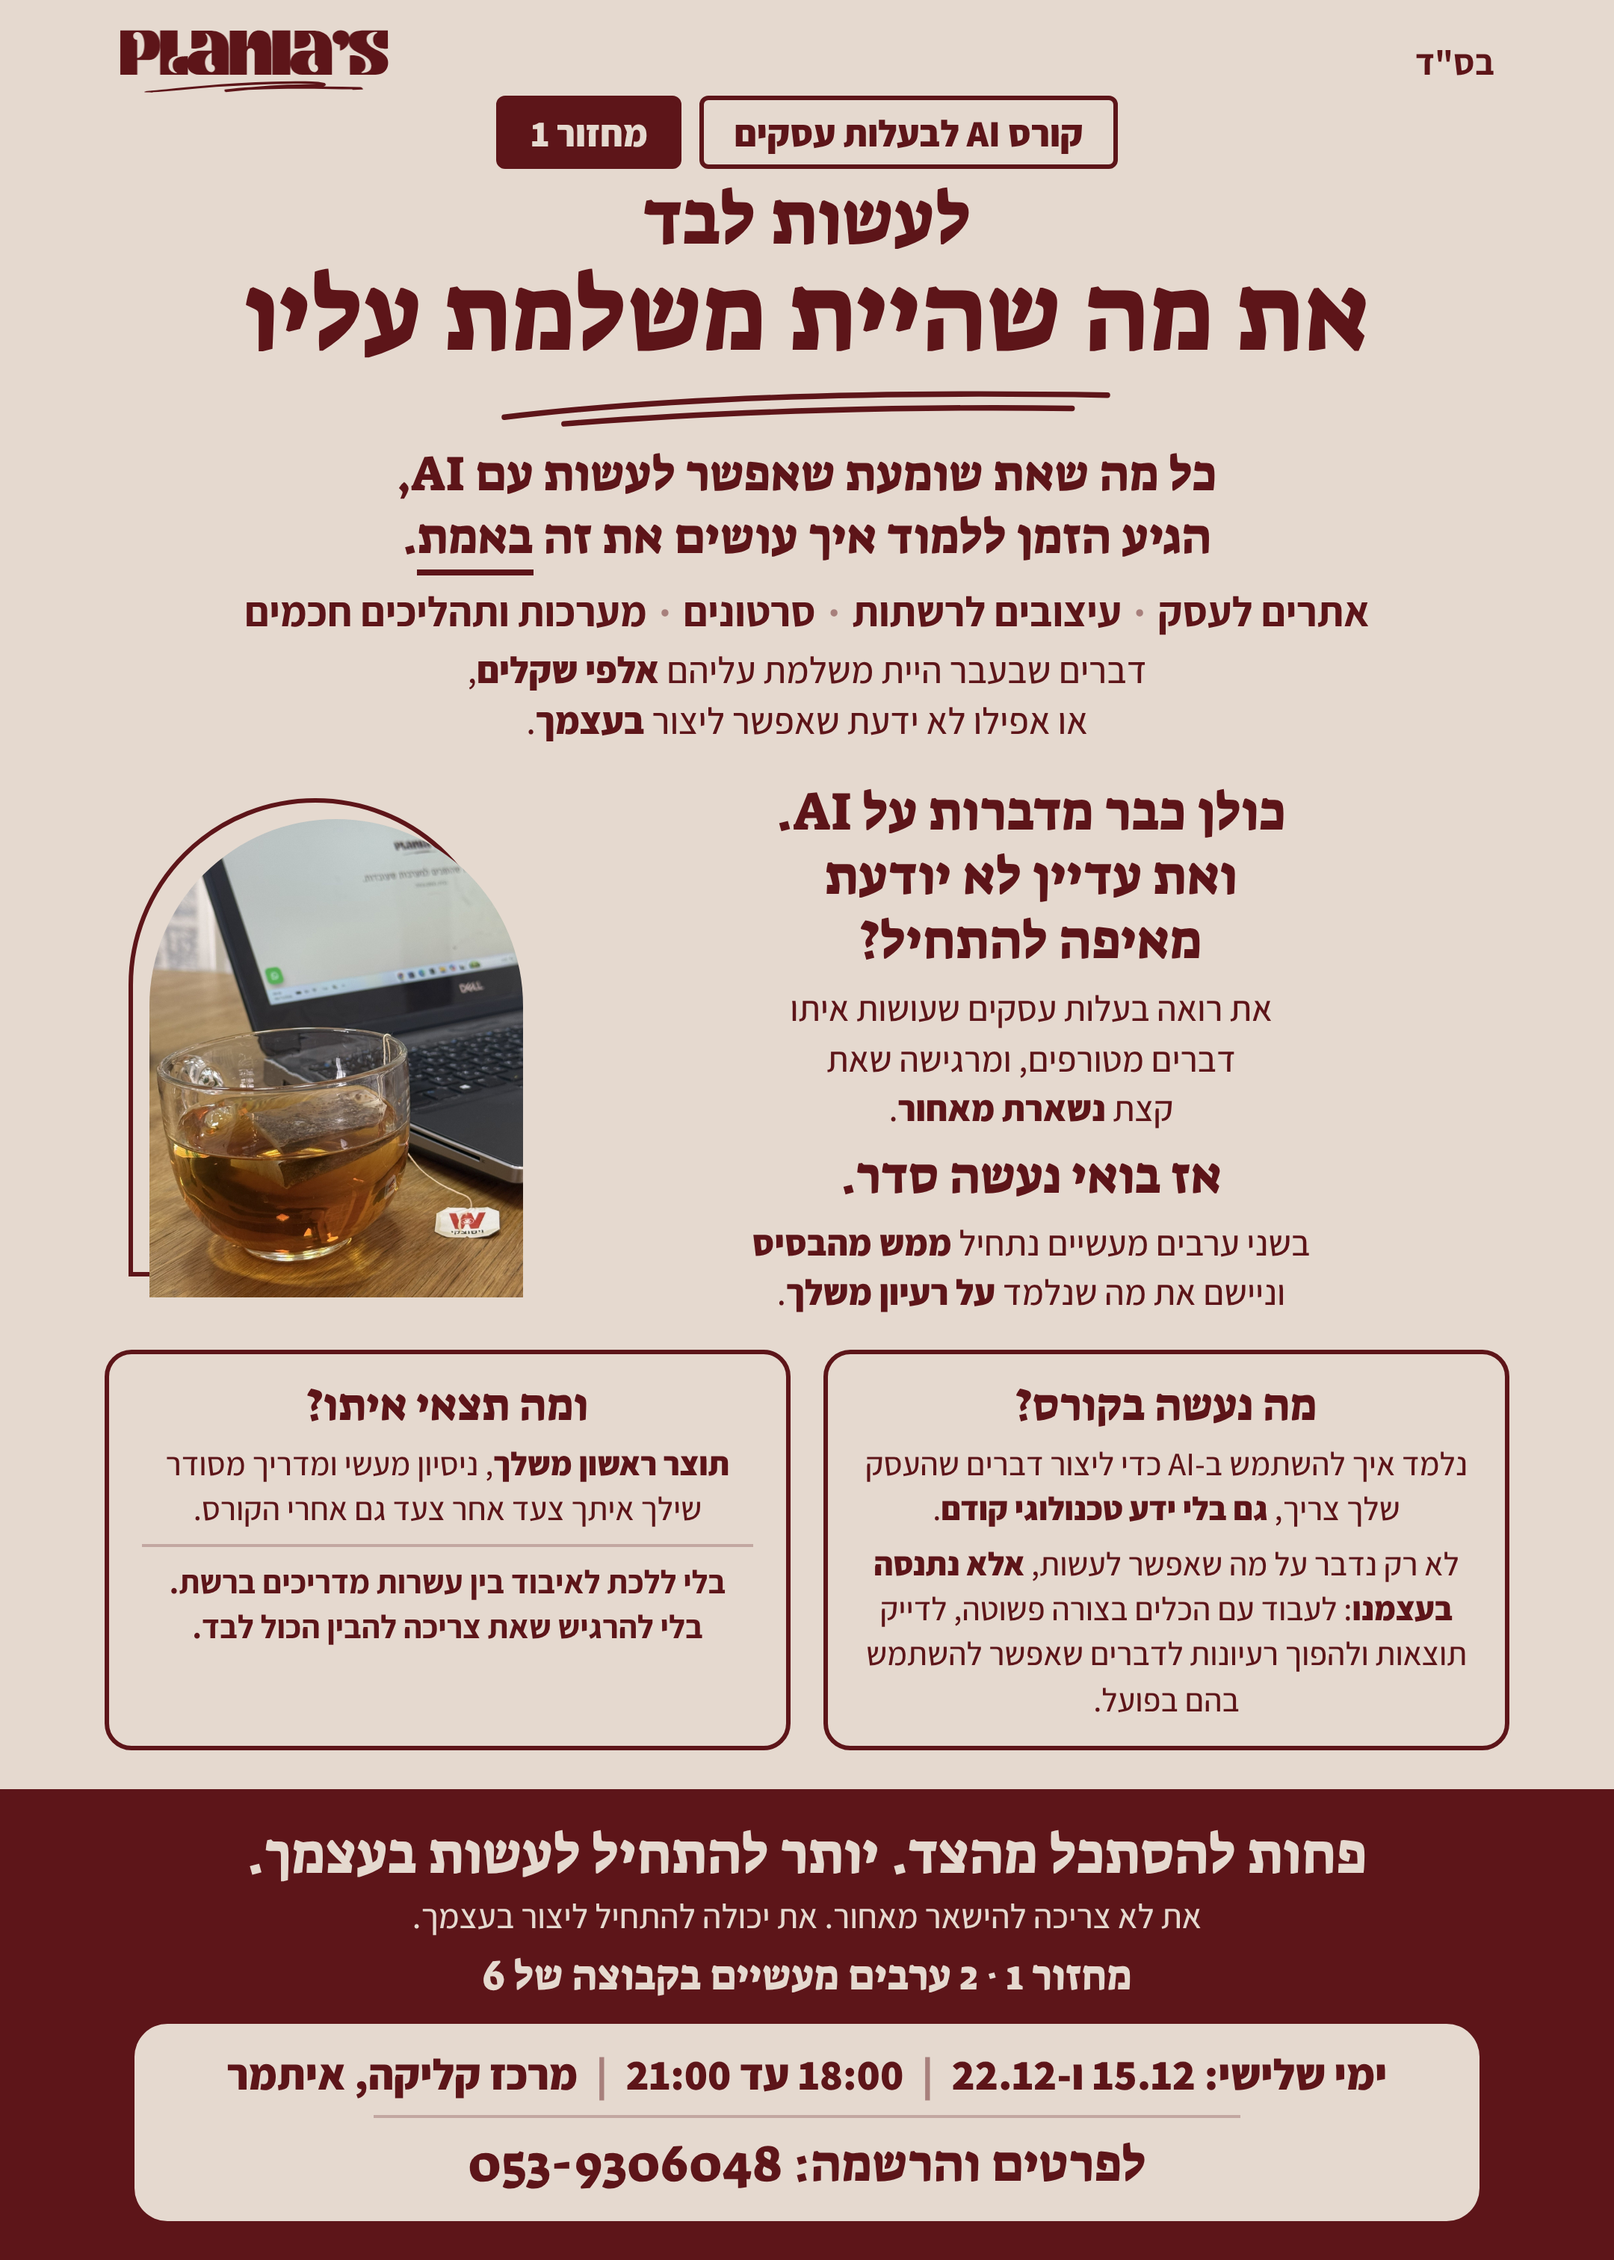
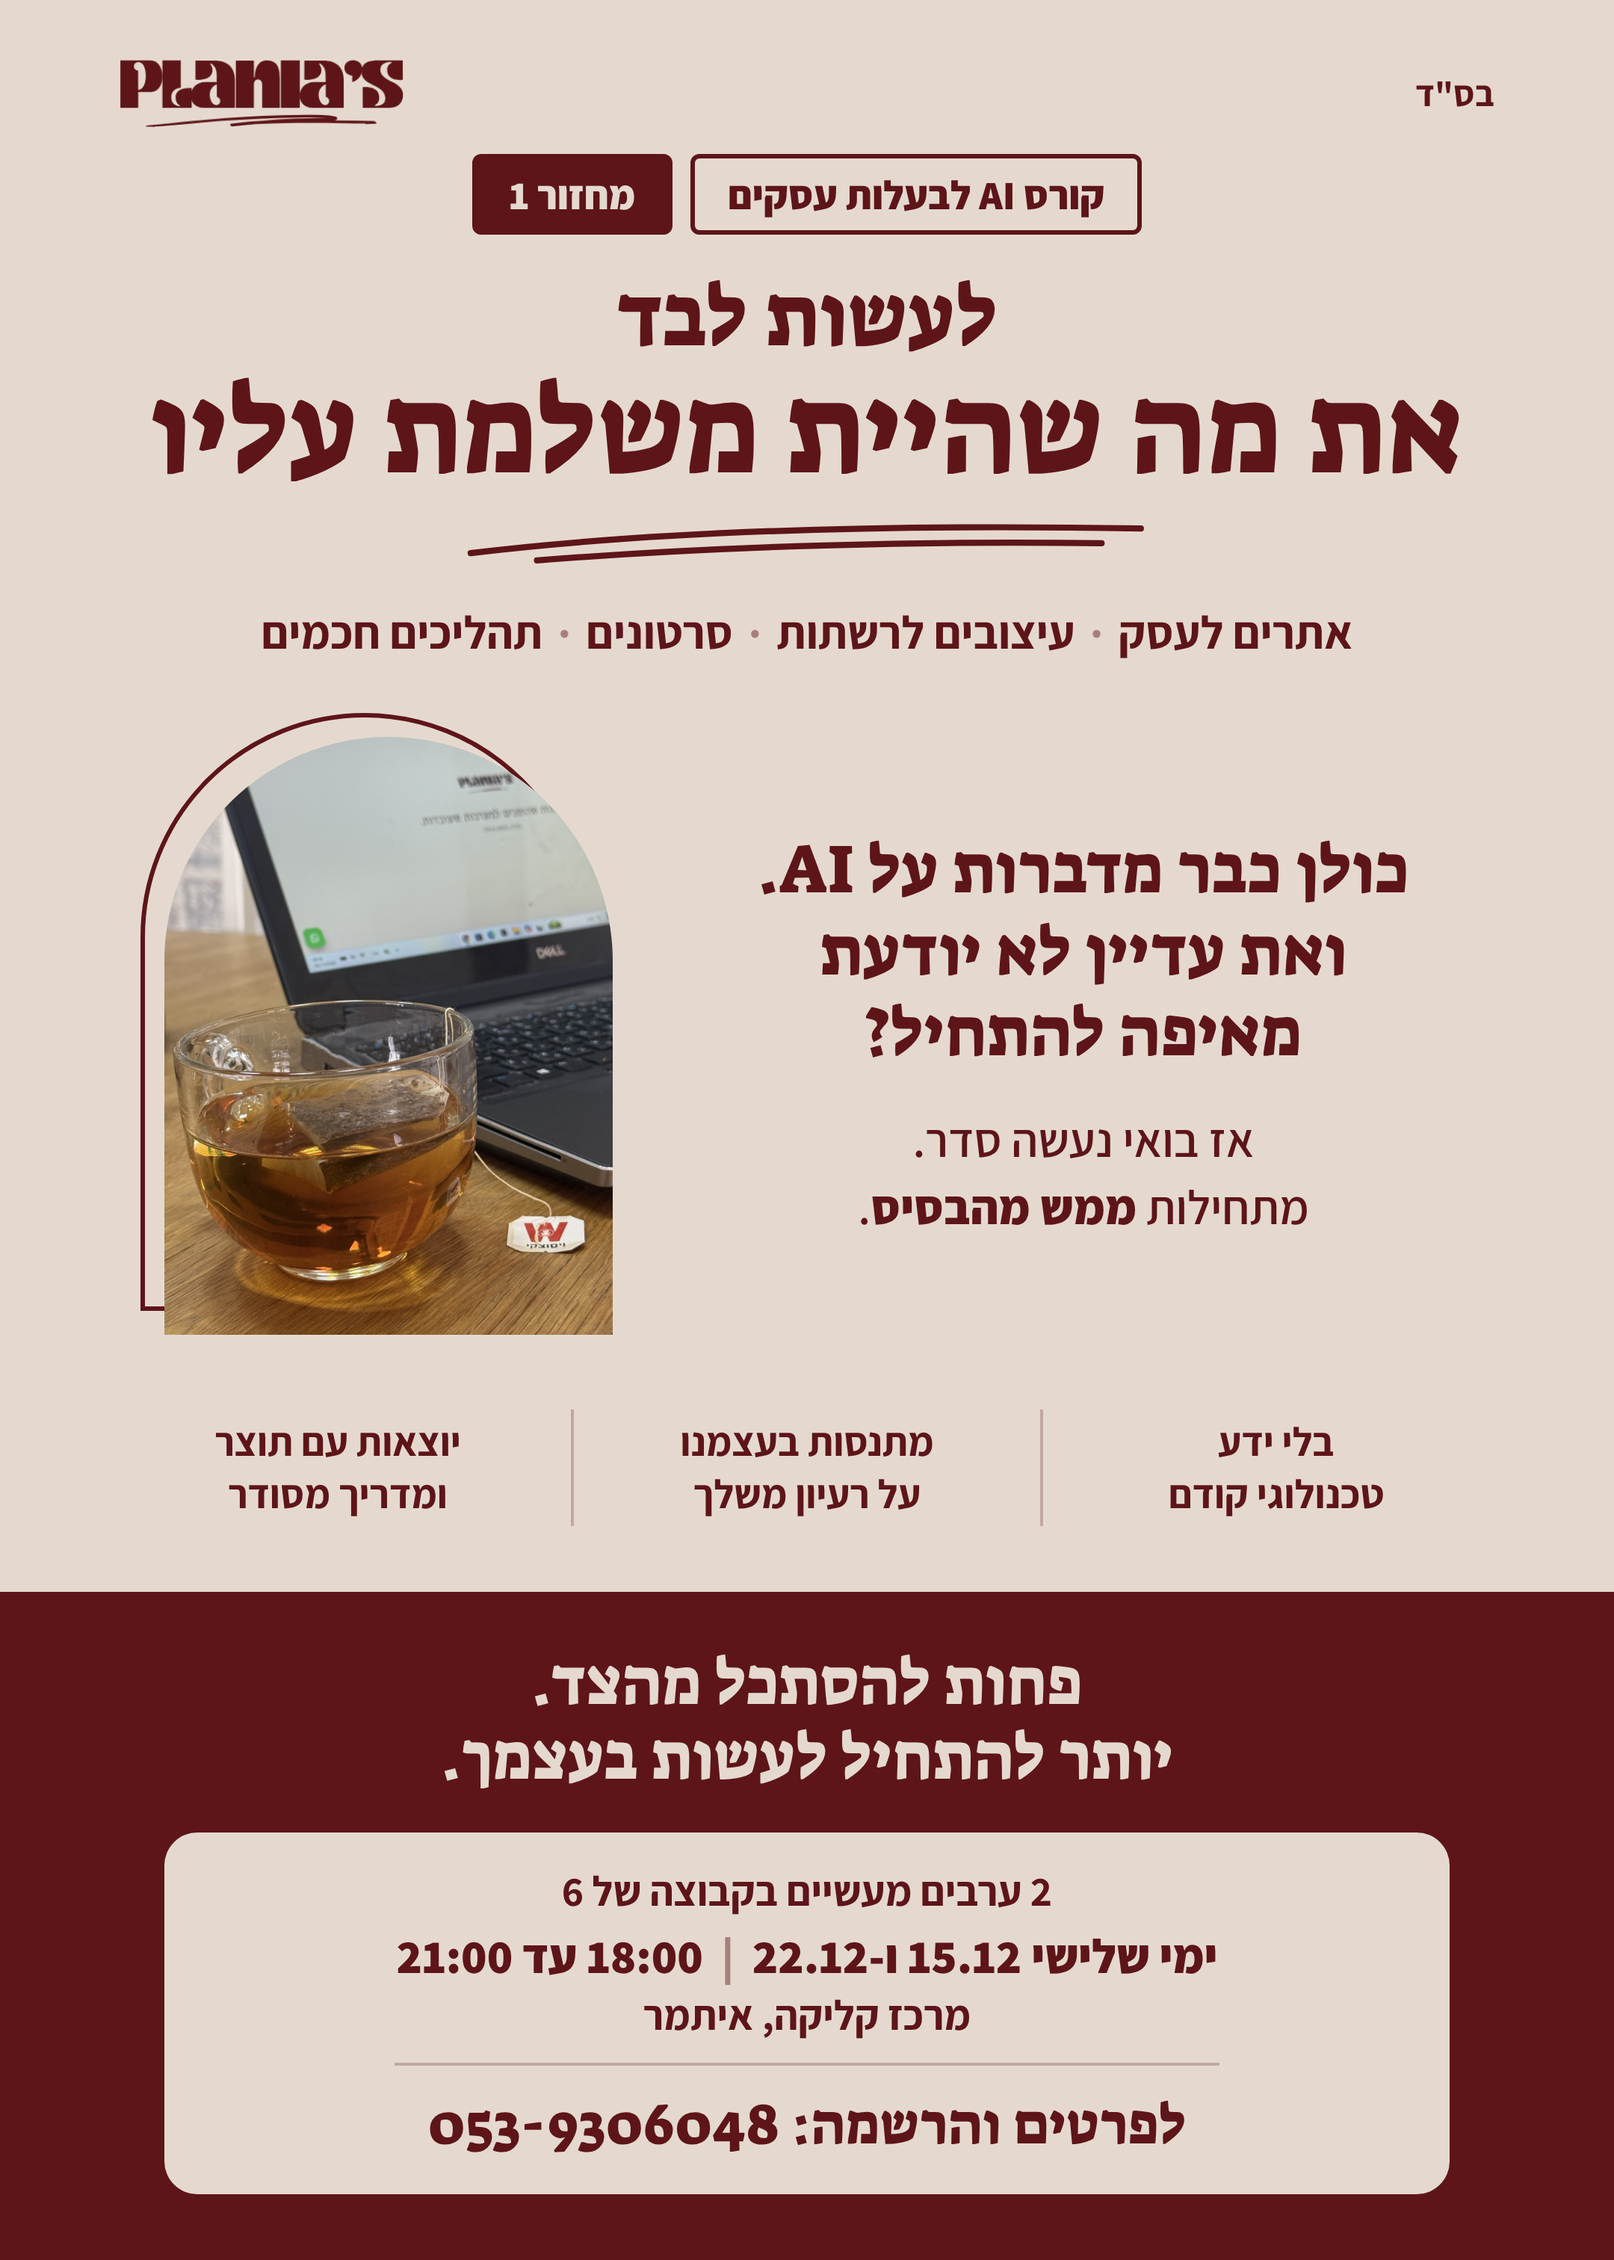
Flyer: cut copy down, more breathing room
Claude-Session: https://claude.ai/code/session_01FAztRn3s498VxUBgDg5pS8

diff --git a/marketing/course-ad/flyer-photo.html b/marketing/course-ad/flyer-photo.html
@@ -9,53 +9,41 @@
 body{font-family:'Assistant',sans-serif}
 #flyer{width:1080px;height:1512px;background:var(--cream);color:var(--wine);position:relative;overflow:hidden;display:flex;flex-direction:column}
 b{font-weight:800}
-u{text-decoration:none;border-bottom:4px solid var(--wine)}
 .ltr{direction:ltr;unicode-bidi:isolate;display:inline-block}
 
-.top{text-align:center;padding:20px 60px 0}
+.top{text-align:center;padding:40px 60px 0}
 .head{display:flex;justify-content:space-between;align-items:center;padding:0 20px}
 .bsd{font-size:24px;font-weight:700}
-.logo{width:180px;display:block}
-.tag{display:inline-block;margin-top:2px;border:3px solid currentColor;padding:5px 20px;font-weight:800;font-size:25px;border-radius:6px}
-h1{font-family:'Suez One',serif;font-weight:400;font-size:72px;line-height:1.02;margin-top:8px}
-h1 .small{display:block;font-size:50px;margin-bottom:2px}
-.swoosh{display:block;width:420px;height:34px;margin:6px auto 0}
-.sub{font-family:'Suez One',serif;font-size:33px;line-height:1.28;margin-top:8px}
-.things{font-size:28px;font-weight:700;margin-top:10px}
-.dot{opacity:.45;margin:0 8px}
-.cost{font-size:25px;font-weight:500;line-height:1.35;margin-top:4px}
+.logo{width:190px;display:block}
+.tags{display:flex;gap:12px;justify-content:center;margin-top:18px}
+.tag{border:3px solid var(--wine);padding:6px 22px;font-weight:800;font-size:27px;border-radius:6px}
+.tag.fill{background:var(--wine);color:var(--cream)}
+h1{font-family:'Suez One',serif;font-weight:400;font-size:84px;line-height:1.02;margin-top:26px}
+h1 .small{display:block;font-size:58px;margin-bottom:4px}
+.swoosh{display:block;width:460px;height:38px;margin:10px auto 0}
+.things{font-size:31px;font-weight:700;margin-top:22px}
+.dot{opacity:.45;margin:0 10px}
 
-.mid{display:flex;gap:50px;padding:22px 100px 0;align-items:center}
+.mid{flex:1;display:flex;gap:70px;padding:0 110px;align-items:center}
 .col{flex:1;text-align:center}
-.q{font-size:24px;font-weight:500;line-height:1.38}
-.me{font-family:'Suez One',serif;font-size:34px;margin-top:6px}
-.how{font-size:24px;font-weight:500;line-height:1.38;margin-top:6px}
-.archwrap{position:relative;width:250px;height:320px;flex:none;margin-top:14px}
-.arch-line{position:absolute;inset:-14px 14px 14px -14px;border:3px solid var(--wine);border-radius:139px 139px 0 0}
-.arch{position:absolute;inset:0;border-radius:125px 125px 0 0;background:url(tea-photo.jpg) 22% 55%/cover no-repeat}
+.hook{font-family:'Suez One',serif;font-size:46px;line-height:1.18}
+.me{font-size:32px;font-weight:600;margin-top:22px;line-height:1.4}
+.archwrap{position:relative;width:300px;height:400px;flex:none}
+.arch-line{position:absolute;inset:-16px 16px 16px -16px;border:3px solid var(--wine);border-radius:166px 166px 0 0}
+.arch{position:absolute;inset:0;border-radius:150px 150px 0 0;background:url(tea-photo.jpg) 22% 55%/cover no-repeat}
 
-.cards{display:flex;gap:22px;padding:22px 70px 14px}
-.card{flex:1;border:3px solid var(--wine);border-radius:18px;padding:14px 22px 16px;text-align:center}
-.card h3{font-family:'Suez One',serif;font-weight:400;font-size:30px;margin-bottom:4px}
-.card p{font-size:22px;font-weight:500;line-height:1.38}
-.card p+p{margin-top:6px}
-.card .no{font-weight:700;margin-top:8px;padding-top:8px;border-top:2px solid var(--soft)}
+.points{display:flex;justify-content:center;padding:0 70px 44px}
+.points div{flex:1;text-align:center;font-size:27px;font-weight:700;line-height:1.3;padding:4px 18px}
+.points div+div{border-right:2px solid var(--soft)}
 
-.band{margin-top:auto;background:var(--wine);color:var(--cream);text-align:center;padding:22px 60px 26px}
-.band h2{font-family:'Suez One',serif;font-weight:400;font-size:38px;line-height:1.15}
-.band .meta{font-family:'Suez One',serif;font-size:28px;margin-top:6px}
-.band .after{font-size:23px;font-weight:500;margin-top:4px}
-.box{margin:14px auto 0;background:var(--cream);color:var(--wine);border-radius:22px;padding:14px 36px 16px;max-width:900px}
-.box .when{font-size:29px;font-weight:800;line-height:1.35}
-.box .where{font-size:29px;font-weight:600;line-height:1.35}
+.band{background:var(--wine);color:var(--cream);text-align:center;padding:36px 70px 44px}
+.band h2{font-family:'Suez One',serif;font-weight:400;font-size:44px;line-height:1.15}
+.box{margin:24px auto 0;background:var(--cream);color:var(--wine);border-radius:22px;padding:20px 36px 22px;max-width:860px}
+.box .meta{font-size:28px;font-weight:700}
+.box .when{font-size:32px;font-weight:800;margin-top:4px}
 .box .sep{opacity:.45;margin:0 12px}
-.box hr{border:none;border-top:2px solid var(--soft);width:70%;margin:8px auto}
-.box .reg{font-family:'Suez One',serif;font-size:34px}
-.tags{display:flex;gap:12px;justify-content:center;margin-top:2px}
-.tags .tag{margin-top:0}
-.tag.fill{background:var(--wine);color:var(--cream);border-color:var(--wine)}
-.hook{font-family:'Suez One',serif;font-size:36px;line-height:1.2}
-.q{margin-top:8px}
+.box hr{border:none;border-top:2px solid var(--soft);width:70%;margin:14px auto}
+.box .reg{font-family:'Suez One',serif;font-size:38px}
 </style>
 </head>
 <body>
@@ -65,40 +53,29 @@ h1 .small{display:block;font-size:50px;margin-bottom:2px}
     <div class="tags"><span class="tag">קורס AI לבעלות עסקים</span><span class="tag fill">מחזור 1</span></div>
     <h1><span class="small">לעשות לבד</span>את מה שהיית משלמת עליו</h1>
     <svg class="swoosh" viewBox="0 0 560 46"><path d="M6 34 C140 18 320 10 552 14 M60 40 C210 28 380 24 520 26" fill="none" stroke="currentColor" stroke-width="5" stroke-linecap="round"/></svg>
-    <p class="sub">כל מה שאת שומעת שאפשר לעשות עם AI,<br>הגיע הזמן ללמוד איך עושים את זה <u>באמת</u>.</p>
-    <p class="things">אתרים לעסק<span class="dot">·</span>עיצובים לרשתות<span class="dot">·</span>סרטונים<span class="dot">·</span>מערכות ותהליכים חכמים</p>
-    <p class="cost">דברים שבעבר היית משלמת עליהם <b>אלפי שקלים</b>,<br>או אפילו לא ידעת שאפשר ליצור <b>בעצמך</b>.</p>
+    <p class="things">אתרים לעסק<span class="dot">·</span>עיצובים לרשתות<span class="dot">·</span>סרטונים<span class="dot">·</span>תהליכים חכמים</p>
   </div>
 
   <div class="mid">
     <div class="col">
       <p class="hook">כולן כבר מדברות על AI.<br>ואת עדיין לא יודעת<br>מאיפה להתחיל?</p>
-      <p class="q">את רואה בעלות עסקים שעושות איתו<br>דברים מטורפים, ומרגישה שאת<br>קצת <b>נשארת מאחור</b>.</p>
-      <p class="me">אז בואי נעשה סדר.</p>
-      <p class="how">בשני ערבים מעשיים נתחיל <b>ממש מהבסיס</b><br>וניישם את מה שנלמד <b>על רעיון משלך</b>.</p>
+      <p class="me">אז בואי נעשה סדר.<br>מתחילות <b>ממש מהבסיס</b>.</p>
     </div>
     <div class="archwrap"><div class="arch-line"></div><div class="arch" role="img" aria-label="כוס תה ליד מחשב נייד עם האתר של פלאניה"></div></div>
   </div>
 
-  <div class="cards">
-    <div class="card">
-      <h3>מה נעשה בקורס?</h3>
-      <p>נלמד איך להשתמש ב-AI כדי ליצור דברים שהעסק שלך צריך, <b>גם בלי ידע טכנולוגי קודם</b>.</p>
-      <p>לא רק נדבר על מה שאפשר לעשות, <b>אלא נתנסה בעצמנו</b>: לעבוד עם הכלים בצורה פשוטה, לדייק תוצאות ולהפוך רעיונות לדברים שאפשר להשתמש בהם בפועל.</p>
-    </div>
-    <div class="card">
-      <h3>ומה תצאי איתו?</h3>
-      <p><b>תוצר ראשון משלך</b>, ניסיון מעשי ומדריך מסודר שילך איתך צעד אחר צעד גם אחרי הקורס.</p>
-      <p class="no">בלי ללכת לאיבוד בין עשרות מדריכים ברשת.<br>בלי להרגיש שאת צריכה להבין הכול לבד.</p>
-    </div>
+  <div class="points">
+    <div>בלי ידע<br>טכנולוגי קודם</div>
+    <div>מתנסות בעצמנו<br>על רעיון משלך</div>
+    <div>יוצאות עם תוצר<br>ומדריך מסודר</div>
   </div>
 
   <div class="band">
-    <h2>פחות להסתכל מהצד. יותר להתחיל לעשות בעצמך.</h2>
-    <p class="after">את לא צריכה להישאר מאחור. את יכולה להתחיל ליצור בעצמך.</p>
-    <p class="meta">מחזור 1 · 2 ערבים מעשיים בקבוצה של 6</p>
+    <h2>פחות להסתכל מהצד.<br>יותר להתחיל לעשות בעצמך.</h2>
     <div class="box">
-      <div class="when">ימי שלישי: 15.12 ו-22.12<span class="sep">|</span>18:00 עד 21:00<span class="sep">|</span>מרכז קליקה, איתמר</div>
+      <div class="meta">2 ערבים מעשיים בקבוצה של 6</div>
+      <div class="when">ימי שלישי 15.12 ו-22.12<span class="sep">|</span>18:00 עד 21:00</div>
+      <div class="meta">מרכז קליקה, איתמר</div>
       <hr>
       <div class="reg">לפרטים והרשמה: <span class="ltr">053-9306048</span></div>
     </div>
